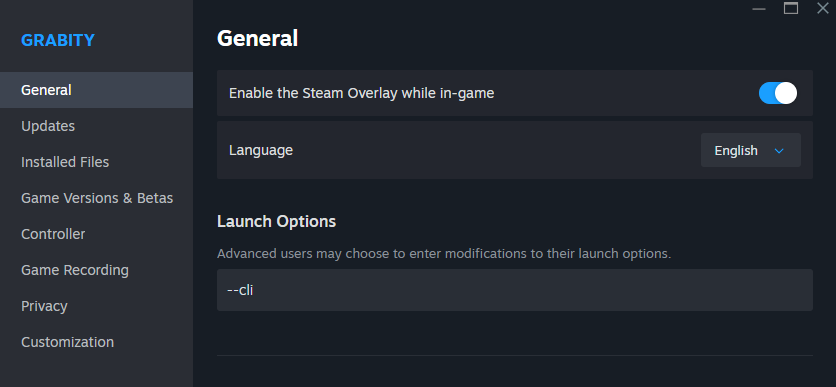
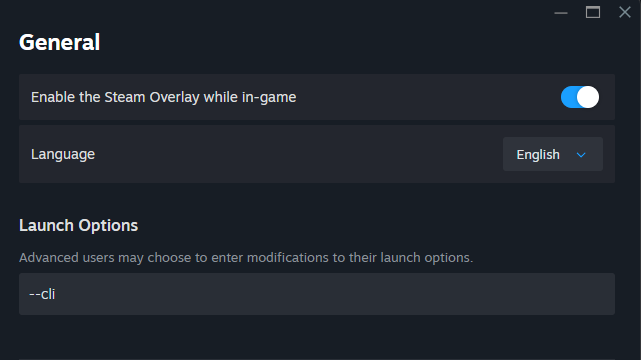
update readme

diff --git a/README.md b/README.md
@@ -10,8 +10,10 @@ An application that allows users to utilize steam's remote play feature with non
 ### Requirements:
 - Windows:
     - Windows Terminal (Installed by default on windows 11)
-- Linux & mac
+- Linux:
     - no support on linux because I haven't quite figured out how to get it working on that platform. Task for another time.
+    - Linux launches games a bit differently than windows does, with some changed environment variables and what not that I haven't been keen on figuring out.
+- Mac:
     - no support on mac because uhhh... yes....
 
 ## Quick Setup Guide:
